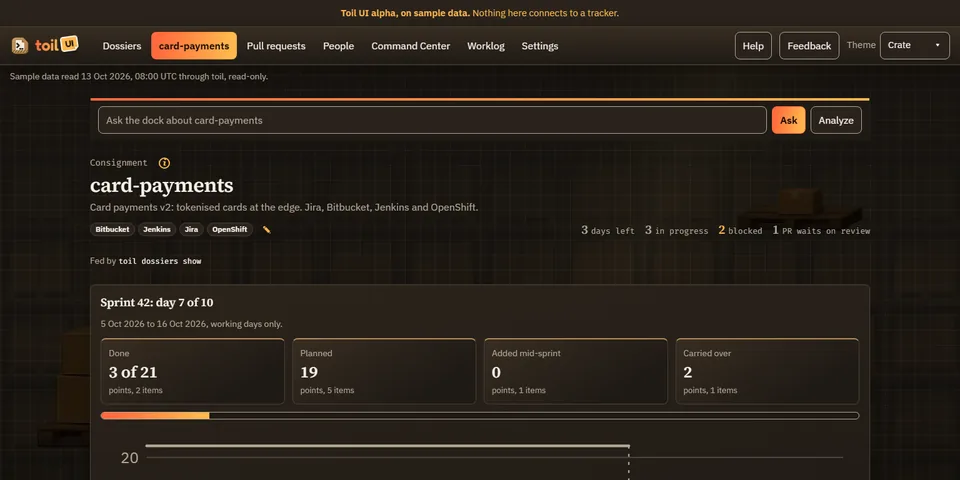
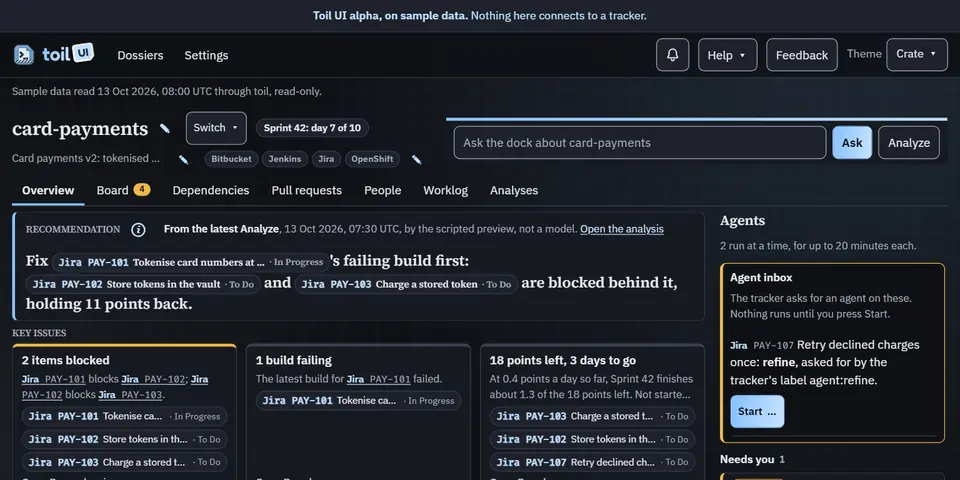
feat(site): retake the home page's Toil UI shot in the blue Crate

diff --git a/site/src/figures/dossier-views.html b/site/src/figures/dossier-views.html
@@ -42,7 +42,7 @@
 <section class="dx-view dx-view--wide" aria-labelledby="dx-view-ui">
 <h3 class="dx-view__k" id="dx-view-ui">In Toil UI</h3>
 <p class="dx-view__cmd"><code>#/dossier/card-payments</code></p>
-<a class="dx-view__shot" href="{base}/ui/?theme=crate#/dossier/card-payments"><img src="{base}/images/ui-dossier-card-payments-960.webp" srcset="{base}/images/ui-dossier-card-payments-960.webp 960w, {base}/images/ui-dossier-card-payments-1536.webp 1536w" sizes="(min-width: 1200px) 900px, 100vw" width="1536" height="768" loading="lazy" decoding="async" alt="Toil UI's dashboard for card-payments, in the Crate theme: the Ask bar with Analyze beside it, the dossier's name and description with its sources (Bitbucket, Jenkins, Jira and OpenShift), 3 days left, 3 in progress, 2 blocked and 1 pull request waiting on review, then the current sprint's progress." /><span class="dx-view__go">See it live</span></a>
+<a class="dx-view__shot" href="{base}/ui/?theme=crate#/dossier/card-payments"><img src="{base}/images/ui-dossier-card-payments-960.webp" srcset="{base}/images/ui-dossier-card-payments-960.webp 960w, {base}/images/ui-dossier-card-payments-1536.webp 1536w" sizes="(min-width: 1200px) 900px, 100vw" width="1536" height="768" loading="lazy" decoding="async" alt="Toil UI's dashboard for card-payments, in the Crate theme: the dossier's name and description with its sources (Bitbucket, Jenkins, Jira and OpenShift), the Ask bar with Analyze beside it, the latest recommendation, the key issues (two items blocked, one build failing, 18 points left with 3 days to go) and the agent inbox." /><span class="dx-view__go">See it live</span></a>
 </section>
 </div>
 <figcaption id="dx-views-cap">One dossier, three readers: a person at a terminal, an agent over MCP, and a person in Toil UI. Each sees the same choices, and where they came from.</figcaption>

diff --git a/docs/decisions/472-crate-blue.md b/docs/decisions/472-crate-blue.md
@@ -68,6 +68,24 @@ keeps its character, themed blue like the public site.
 - **The ground:** every raster's ground is at most `(7, 9, 10)`, below Crate's new
   bg `#0f1115`, so `mix-blend-mode: lighten` still hides it.
 
+## The site's screenshot of Toil UI is retaken in the blue Crate
+
+- **What:** `site/public/images/ui-dossier-card-payments-1536.webp` and `-960.webp`
+  (the home page's Toil UI section and `/docs/dossiers/`' "One dossier, three
+  views") are a new shot of card-payments' dashboard in Crate, on the sample data,
+  at 1280 by 640 CSS pixels and 1.2x (so 1536 by 768, the size the markup declares),
+  with Theme motion off. Same names, sizes and format, so no markup moves.
+- **The alt text changed** on both, because the dashboard has changed since the old
+  shot (the recommendation, the key issues and the agent inbox now lead it, where the
+  sprint's progress used to); an alt text that describes a screen nobody sees would
+  fail the people who rely on it.
+- **The files are larger** (73 KB and 42 KB, from 44 KB and 24 KB): the new dashboard
+  has more text on it. Still lazy-loaded below the fold.
+- **The rest was checked:** the `/ui/` showcase frames the real app, so its default
+  Crate is the blue one; the cartoons, `og.png`, the README banner and cartoon, the
+  social preview and the avatars were already blue (#448). Nothing else in `site/`
+  or `.github/assets/` shows Crate.
+
 ## Words
 
 - The theme's description, `ui/docs/themes.md`, the site skill and the welcome docs
